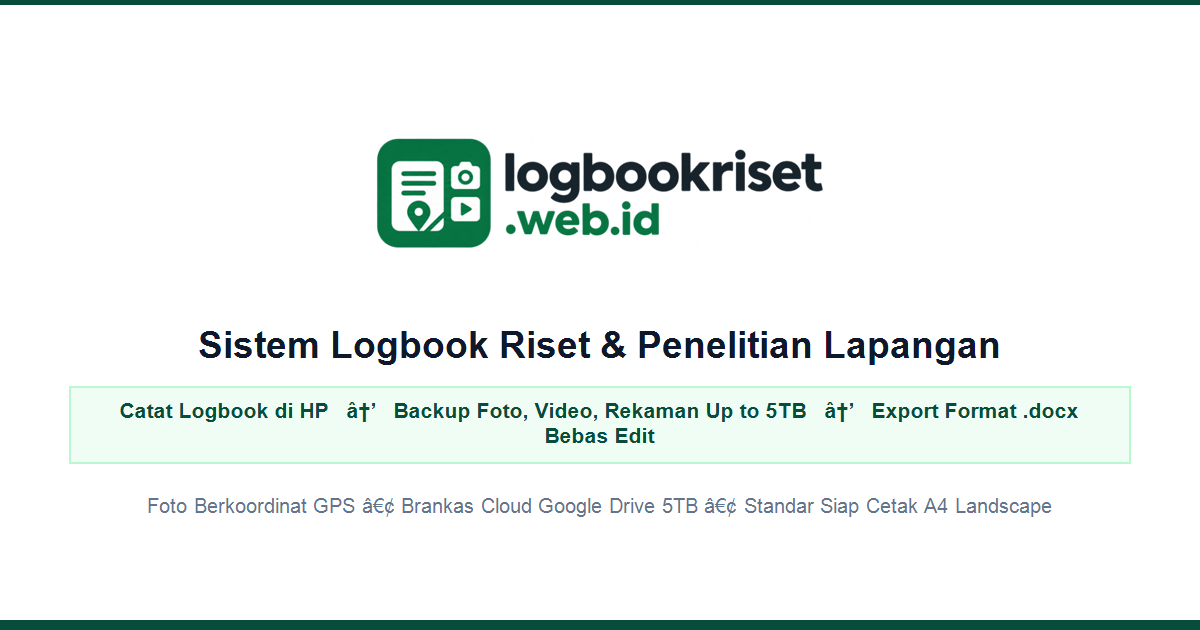
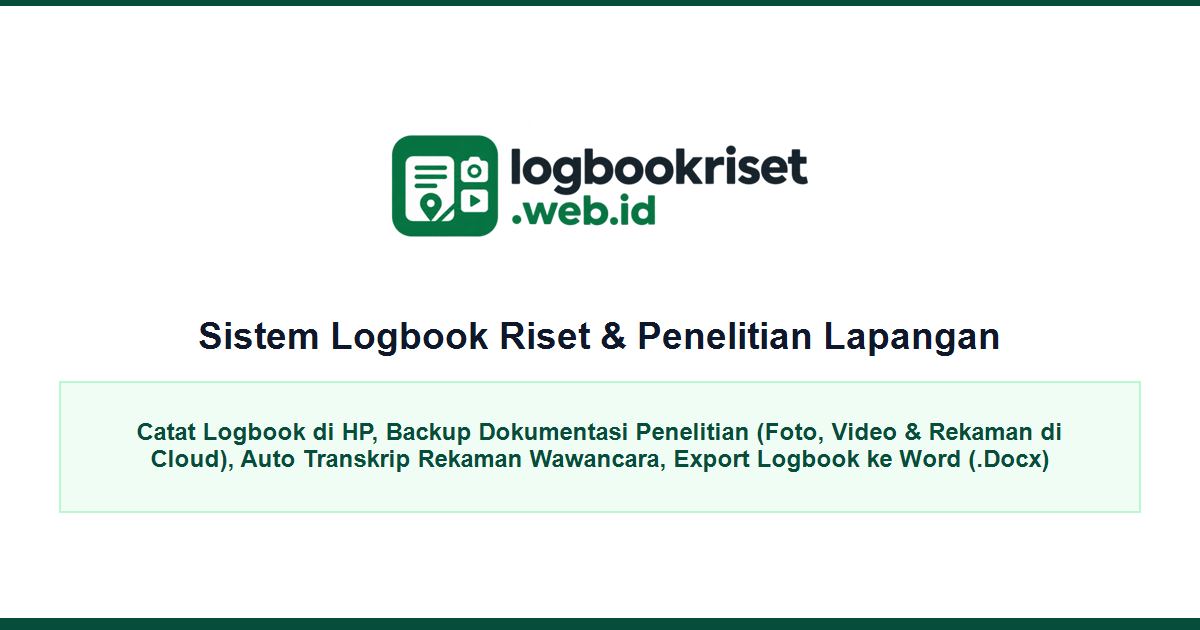
fix: perbaiki judul link preview, deskripsi sub judul, dan regenerasi og-preview bebas mojibake

diff --git a/200.html b/200.html
@@ -15,9 +15,9 @@
   <link rel="manifest" href="/site.webmanifest">
 
   <!-- SEO Primer & Metadata Pencarian Tingkat Lanjut (SEO & GEO Master) -->
-  <title>Logbook Riset Lapangan, Auto Transkrip Wawancara AI &amp; Ekspor Word (.docx) | LogbookRiset.web.id</title>
-  <meta name="description" content="Aplikasi logbook penelitian lapangan resmi di Indonesia. Catat aktivitas di HP, auto-transkrip rekaman wawancara narasumber menjadi teks otomatis berbasis kecerdasan buatan (AI), simpan media cloud kapasitas besar, dan download instan logbook format Word (.docx) landscape siap cetak.">
-  <meta name="keywords" content="logbook penelitian, logbook riset, auto transkrip wawancara, ubah rekaman jadi teks, speech to text penelitian, transkripsi wawancara ai, transkripsi ai indonesia, format logbook penelitian docx, contoh logbook penelitian lapangan, aplikasi logbook riset, download logbook word landscape, buku catatan riset, lembar pengesahan logbook penelitian, logbook riset kolaboratif">
+  <title>Logbook Riset Lapangan, Backup Dokumentasi ke Cloud, Auto Transcript Wawancara, Export Logbook Ke Word | LogbookRiset.web.id</title>
+  <meta name="description" content="Catat Logbook di HP, Backup Dokumentasi Penelitian (Foto, Video &amp; Rekaman di Cloud), Auto Transkrip Rekaman Wawancara, Export Logbook ke Word (.Docx).">
+  <meta name="keywords" content="logbook penelitian, logbook riset, auto transcript wawancara, ubah rekaman jadi teks, backup dokumentasi cloud, speech to text penelitian, transkripsi wawancara ai, transkripsi ai indonesia, format logbook penelitian docx, contoh logbook penelitian lapangan, aplikasi logbook riset, download logbook word landscape, buku catatan riset, lembar pengesahan logbook penelitian, logbook riset kolaboratif">
   <meta name="author" content="LogbookRiset.web.id">
   <meta name="robots" content="index, follow, max-snippet:-1, max-image-preview:large, max-video-preview:-1">
   <meta name="googlebot" content="index, follow, max-snippet:-1, max-image-preview:large, max-video-preview:-1">
@@ -36,9 +36,9 @@
   <!-- Open Graph / Rich Social Preview -->
   <meta property="og:type" content="website">
   <meta property="og:url" content="https://logbookriset.web.id/">
-  <meta property="og:title" content="Logbook Riset Lapangan, Auto Transkrip Wawancara AI &amp; Ekspor Word (.docx)">
-  <meta property="og:description" content="Sistem logbook riset &amp; penelitian lapangan. Catat logbook di HP, auto-transkrip rekaman wawancara narasumber jadi teks otomatis berbasis kecerdasan buatan (AI), simpan media cloud terenkripsi, dan download format .docx bebas edit.">
-  <meta property="og:image" content="https://logbookriset.web.id/assets/img/og-preview.png">
+  <meta property="og:title" content="Logbook Riset Lapangan, Backup Dokumentasi ke Cloud, Auto Transcript Wawancara, Export Logbook Ke Word">
+  <meta property="og:description" content="Catat Logbook di HP, Backup Dokumentasi Penelitian (Foto, Video &amp; Rekaman di Cloud), Auto Transkrip Rekaman Wawancara, Export Logbook ke Word (.Docx).">
+  <meta property="og:image" content="https://logbookriset.web.id/assets/img/og-preview.png?v=20261011_100">
   <meta property="og:image:width" content="1200">
   <meta property="og:image:height" content="630">
   <meta property="og:locale" content="id_ID">
@@ -47,9 +47,9 @@
   <!-- Twitter Card -->
   <meta name="twitter:card" content="summary_large_image">
   <meta name="twitter:url" content="https://logbookriset.web.id/">
-  <meta name="twitter:title" content="Logbook Riset Lapangan, Auto Transkrip Wawancara AI &amp; Ekspor Word (.docx)">
-  <meta name="twitter:description" content="Sistem logbook riset &amp; penelitian lapangan. Catat logbook di HP, auto-transkrip rekaman wawancara narasumber jadi teks otomatis berbasis kecerdasan buatan (AI), simpan media cloud terenkripsi, dan download format .docx bebas edit.">
-  <meta name="twitter:image" content="https://logbookriset.web.id/assets/img/og-preview.png">
+  <meta name="twitter:title" content="Logbook Riset Lapangan, Backup Dokumentasi ke Cloud, Auto Transcript Wawancara, Export Logbook Ke Word">
+  <meta name="twitter:description" content="Catat Logbook di HP, Backup Dokumentasi Penelitian (Foto, Video &amp; Rekaman di Cloud), Auto Transkrip Rekaman Wawancara, Export Logbook ke Word (.Docx).">
+  <meta name="twitter:image" content="https://logbookriset.web.id/assets/img/og-preview.png?v=20261011_100">
 
   <!-- Schema.org Data Terstruktur untuk Mesin Pencari & AI Agents (GEO & Rich Results) -->
   <script type="application/ld+json">

diff --git a/index.html b/index.html
@@ -15,9 +15,9 @@
   <link rel="manifest" href="/site.webmanifest">
 
   <!-- SEO Primer & Metadata Pencarian Tingkat Lanjut (SEO & GEO Master) -->
-  <title>Logbook Riset Lapangan, Auto Transkrip Wawancara AI &amp; Ekspor Word (.docx) | LogbookRiset.web.id</title>
-  <meta name="description" content="Aplikasi logbook penelitian lapangan resmi di Indonesia. Catat aktivitas di HP, auto-transkrip rekaman wawancara narasumber menjadi teks otomatis berbasis kecerdasan buatan (AI), simpan media cloud kapasitas besar, dan download instan logbook format Word (.docx) landscape siap cetak.">
-  <meta name="keywords" content="logbook penelitian, logbook riset, auto transkrip wawancara, ubah rekaman jadi teks, speech to text penelitian, transkripsi wawancara ai, transkripsi ai indonesia, format logbook penelitian docx, contoh logbook penelitian lapangan, aplikasi logbook riset, download logbook word landscape, buku catatan riset, lembar pengesahan logbook penelitian, logbook riset kolaboratif">
+  <title>Logbook Riset Lapangan, Backup Dokumentasi ke Cloud, Auto Transcript Wawancara, Export Logbook Ke Word | LogbookRiset.web.id</title>
+  <meta name="description" content="Catat Logbook di HP, Backup Dokumentasi Penelitian (Foto, Video &amp; Rekaman di Cloud), Auto Transkrip Rekaman Wawancara, Export Logbook ke Word (.Docx).">
+  <meta name="keywords" content="logbook penelitian, logbook riset, auto transcript wawancara, ubah rekaman jadi teks, backup dokumentasi cloud, speech to text penelitian, transkripsi wawancara ai, transkripsi ai indonesia, format logbook penelitian docx, contoh logbook penelitian lapangan, aplikasi logbook riset, download logbook word landscape, buku catatan riset, lembar pengesahan logbook penelitian, logbook riset kolaboratif">
   <meta name="author" content="LogbookRiset.web.id">
   <meta name="robots" content="index, follow, max-snippet:-1, max-image-preview:large, max-video-preview:-1">
   <meta name="googlebot" content="index, follow, max-snippet:-1, max-image-preview:large, max-video-preview:-1">
@@ -36,9 +36,9 @@
   <!-- Open Graph / Rich Social Preview -->
   <meta property="og:type" content="website">
   <meta property="og:url" content="https://logbookriset.web.id/">
-  <meta property="og:title" content="Logbook Riset Lapangan, Auto Transkrip Wawancara AI &amp; Ekspor Word (.docx)">
-  <meta property="og:description" content="Sistem logbook riset &amp; penelitian lapangan. Catat logbook di HP, auto-transkrip rekaman wawancara narasumber jadi teks otomatis berbasis kecerdasan buatan (AI), simpan media cloud terenkripsi, dan download format .docx bebas edit.">
-  <meta property="og:image" content="https://logbookriset.web.id/assets/img/og-preview.png">
+  <meta property="og:title" content="Logbook Riset Lapangan, Backup Dokumentasi ke Cloud, Auto Transcript Wawancara, Export Logbook Ke Word">
+  <meta property="og:description" content="Catat Logbook di HP, Backup Dokumentasi Penelitian (Foto, Video &amp; Rekaman di Cloud), Auto Transkrip Rekaman Wawancara, Export Logbook ke Word (.Docx).">
+  <meta property="og:image" content="https://logbookriset.web.id/assets/img/og-preview.png?v=20261011_100">
   <meta property="og:image:width" content="1200">
   <meta property="og:image:height" content="630">
   <meta property="og:locale" content="id_ID">
@@ -47,9 +47,9 @@
   <!-- Twitter Card -->
   <meta name="twitter:card" content="summary_large_image">
   <meta name="twitter:url" content="https://logbookriset.web.id/">
-  <meta name="twitter:title" content="Logbook Riset Lapangan, Auto Transkrip Wawancara AI &amp; Ekspor Word (.docx)">
-  <meta name="twitter:description" content="Sistem logbook riset &amp; penelitian lapangan. Catat logbook di HP, auto-transkrip rekaman wawancara narasumber jadi teks otomatis berbasis kecerdasan buatan (AI), simpan media cloud terenkripsi, dan download format .docx bebas edit.">
-  <meta name="twitter:image" content="https://logbookriset.web.id/assets/img/og-preview.png">
+  <meta name="twitter:title" content="Logbook Riset Lapangan, Backup Dokumentasi ke Cloud, Auto Transcript Wawancara, Export Logbook Ke Word">
+  <meta name="twitter:description" content="Catat Logbook di HP, Backup Dokumentasi Penelitian (Foto, Video &amp; Rekaman di Cloud), Auto Transkrip Rekaman Wawancara, Export Logbook ke Word (.Docx).">
+  <meta name="twitter:image" content="https://logbookriset.web.id/assets/img/og-preview.png?v=20261011_100">
 
   <!-- Schema.org Data Terstruktur untuk Mesin Pencari & AI Agents (GEO & Rich Results) -->
   <script type="application/ld+json">
